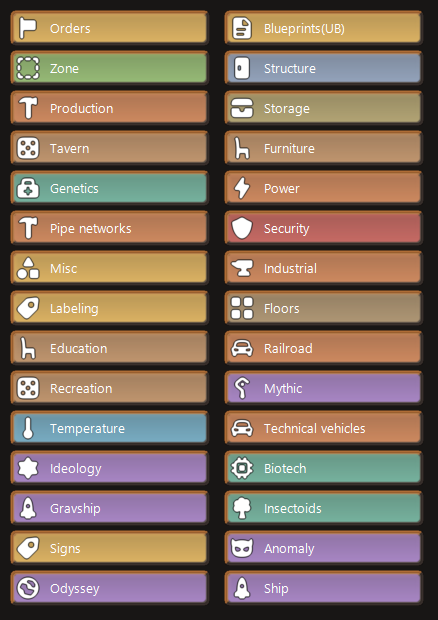
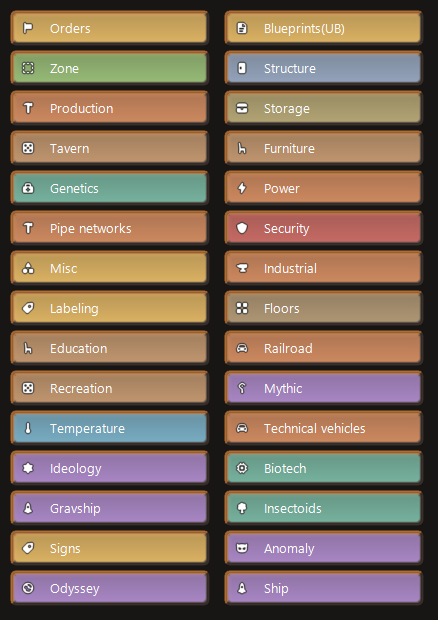
Stop Make-Docs from overwriting hand painted images
The Workshop thumbnail was painted by hand and a full Make-Docs run
regenerated it, so the generated one is what shipped. The thumbnail
comes from About/Preview.png inside the package, so a script writing
over it is enough to lose it.

Every output now goes through the same hash guard the atlas generator
uses, with a manifest beside it and -Force to overwrite on purpose.

The guard must not record the hand edited hash when it skips a file:
that makes it match on the next run and the protection lasts exactly
one pass.

The release skill now lists what goes stale with what, and who has to
redo it.

diff --git a/.claude/skills/release/SKILL.md b/.claude/skills/release/SKILL.md
@@ -11,22 +11,38 @@ Steps marked **Daniel** are his. Do the rest, then stop and tell him.
 
 - `git status` clean, nothing untracked that should ship
 - if art changed: `tools/Make-Icons.ps1`, `tools/Make-Atlases.ps1`, `tools/Make-Docs.ps1`
-- if the settings screen or a theme list changed: say the tour GIF and the gallery are stale
 - build: `dotnet build -c Release Source/LizarbInterface/LizarbInterface.csproj`
 
-## 2. Change note (Claude)
+## 2. What went stale (Claude tells Daniel)
+
+Check each and name the ones that need him. Never guess that one is fine.
+
+| changed | goes stale | who |
+|---|---|---|
+| themes, fonts, plate shapes, Architect | `docs/*.png` | Claude, run Make-Docs |
+| the thumbnail | `About/Preview.png`, ships in the package | Daniel repaints, Claude never |
+| settings screen, tabs | `docs/settings/*.png`, `tour.gif` | Daniel rescreenshots |
+| themes added or removed | gallery images, the theme count in the text | Daniel |
+| features, wording, credits | `docs/steam-description.bbcode` | Claude edits, Daniel pastes |
+| any `docs` image the description links | push before he pastes | Claude |
+
+`About/Preview.png` is the Workshop thumbnail and comes from the package, not
+from the item page. `Make-Docs` will not overwrite a hand painted one, but say
+out loud which of the two is about to ship.
+
+## 3. Change note (Claude)
 
 - rewrite `About/ChangeNote.txt` from the commits since the last release
 - what the player gets, not how it works
 - no em dash, no spaced hyphen
 - it ships inside the package and becomes the Steam change note by itself
 
-## 3. Commit and push (Claude)
+## 4. Commit and push (Claude)
 
 - commit everything, `git push` with no arguments
 - never write the destination by hand: local is `master`, remote is `main`
 
-## 4. Package (Claude)
+## 5. Package (Claude)
 
 ```
 powershell -File tools/Make-Release.ps1 -Link
@@ -34,7 +50,7 @@ powershell -File tools/Make-Release.ps1 -Link
 
 Bumps the minor version, stages `dist/`, points the junction at it.
 
-## 5. Verify the package (Claude)
+## 6. Verify the package (Claude)
 
 - `About/PublishedFileId.txt` present and equal to `3791745392`
 - `ChangeNote.txt` present
@@ -43,13 +59,13 @@ Bumps the minor version, stages `dist/`, points the junction at it.
 - the default theme folder has its files
 - commit the version bump and push
 
-## 6. Upload (Daniel)
+## 7. Upload (Daniel)
 
 - close RimWorld, the junction is only read at start
 - open it, Mods, select Lizarb Interface, Upload
 - nothing to paste: the change note travels in the package
 
-## 7. After (Daniel asks, Claude runs)
+## 8. After (Daniel asks, Claude runs)
 
 ```
 powershell -File tools/Make-Release.ps1 -Dev
